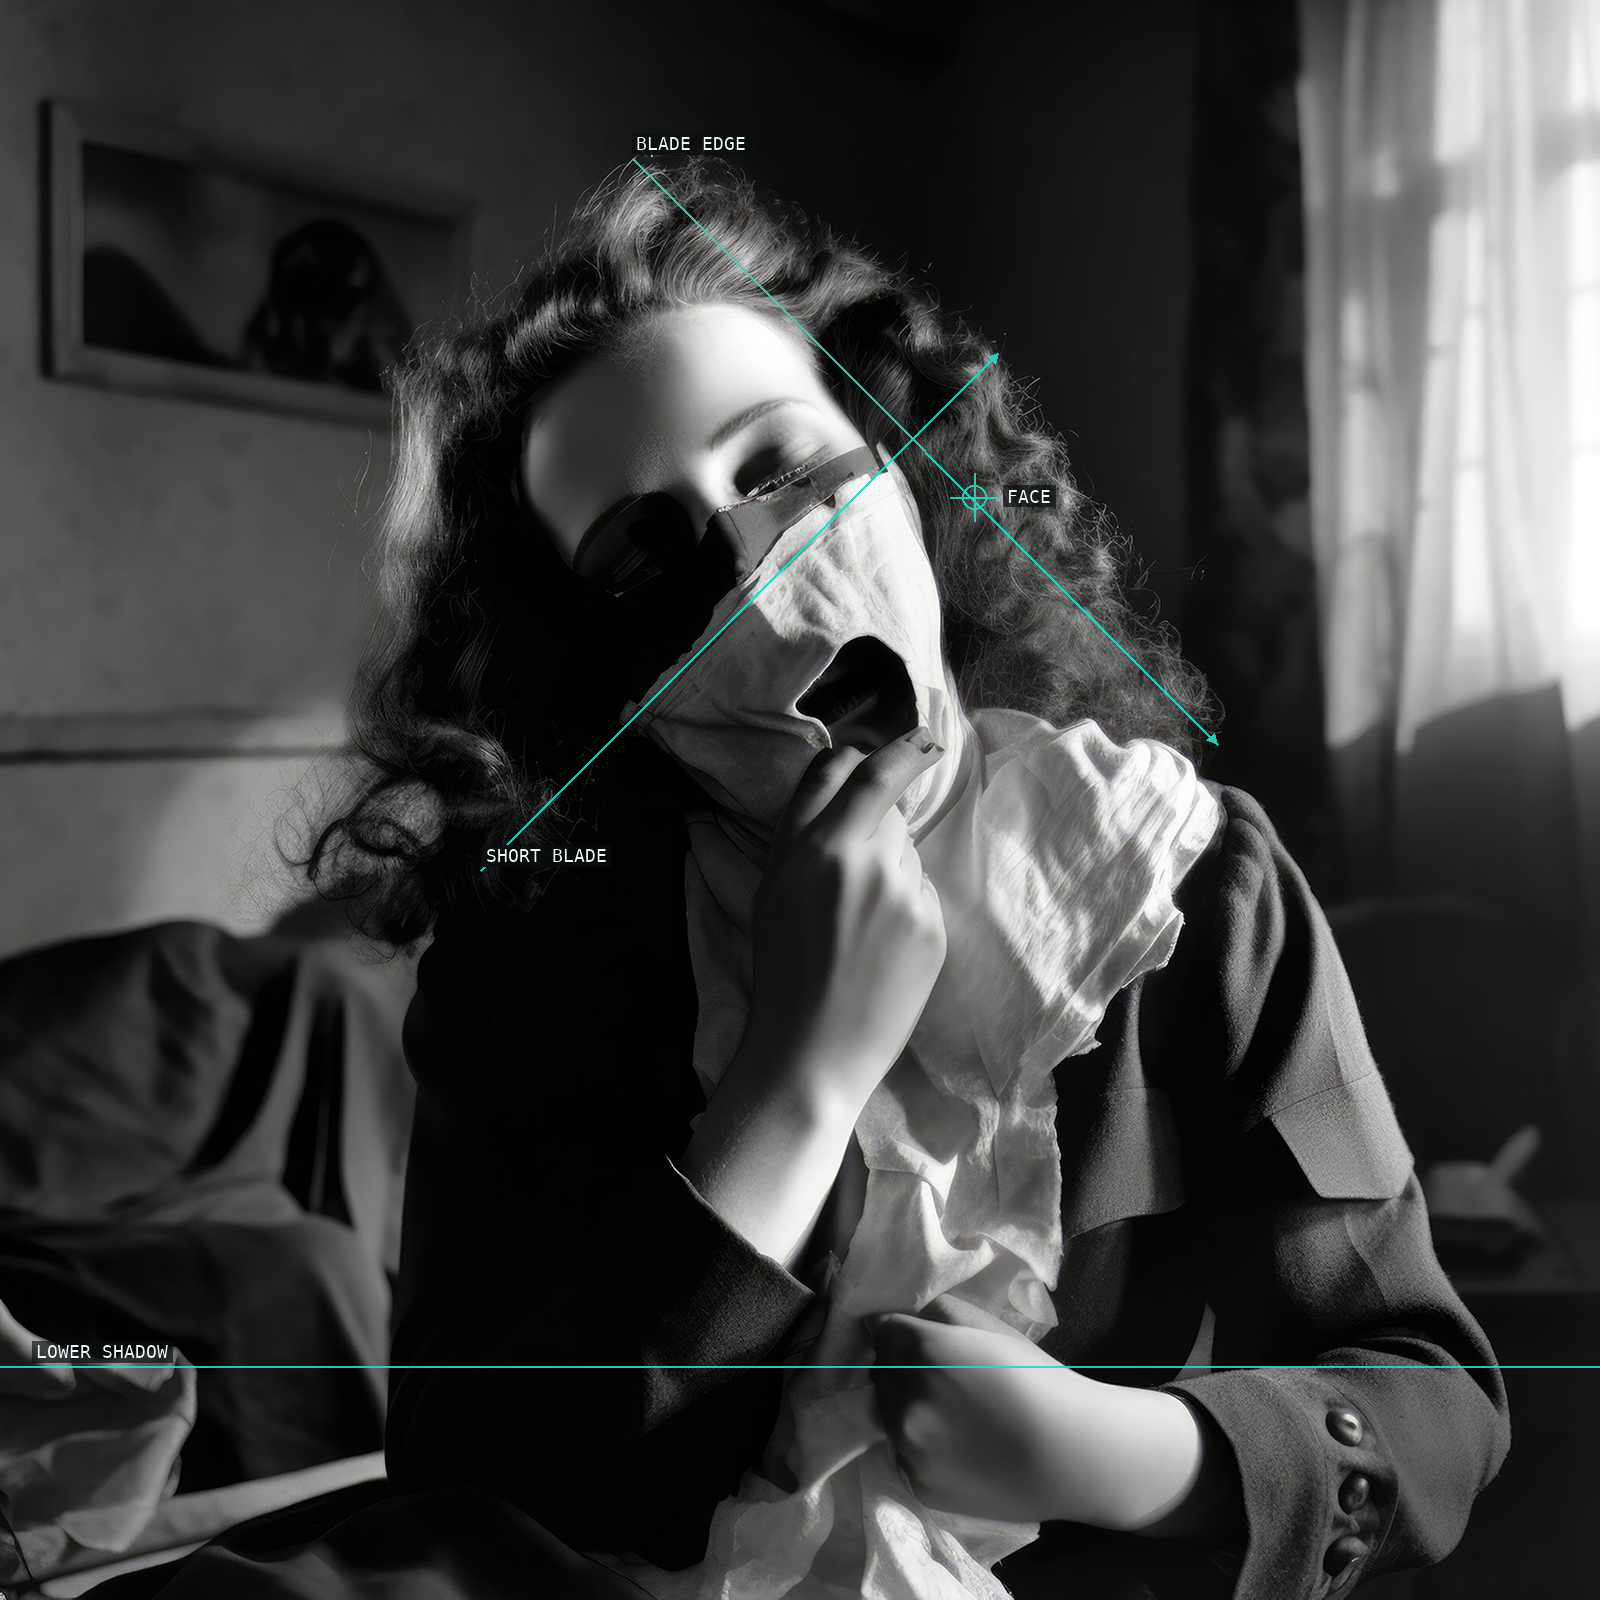
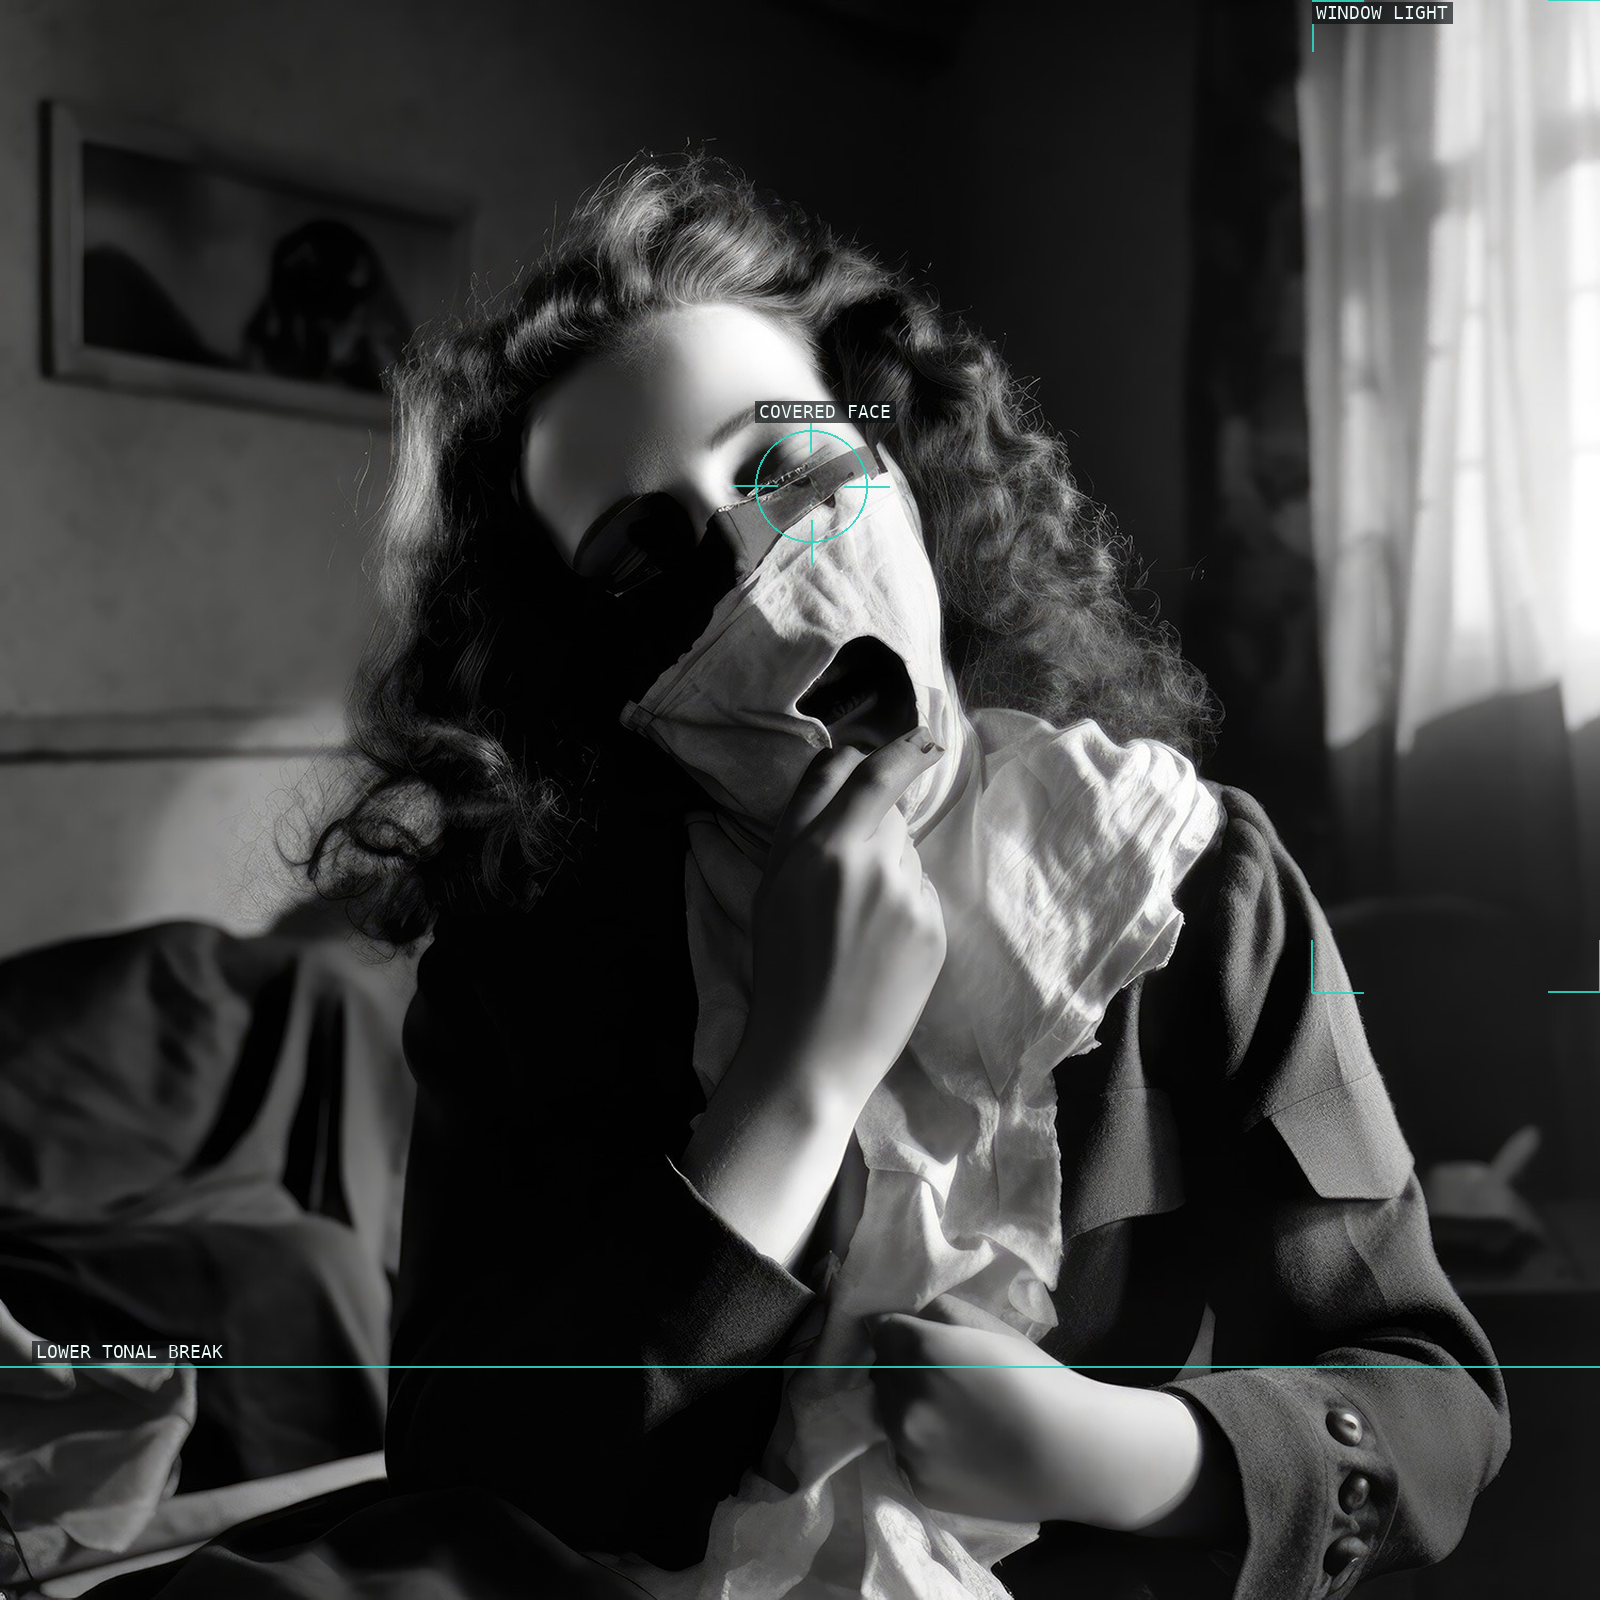
resolve critique: boris-eldagsen

diff --git a/content/boris-eldagsen/critique.md b/content/boris-eldagsen/critique.md
@@ -1,4 +1,4 @@
-verdict: revise
+verdict: resolved
 
 ## Critique round — 2026-07-27
 
@@ -36,3 +36,21 @@ process claims beyond the documented AI workflow.
   `01-the-electrician`). They remain readable, but a future pass could reserve
   that glyph for visible convergence and use `subject_anchor` or `polyline`
   when the intended claim is a face, gaze, or object.
+
+## Builder resolution — 2026-07-27
+
+1. **`03-the-leftovers` fixed.** Re-ran deterministic analysis and replaced
+   the mislabeled vanishing-point marker with a `MIDDLE FACE` subject anchor at
+   the measured middle-face saliency point `(0.400, 0.385)`. The proof now
+   identifies the actual middle child, and the chapter now describes a
+   middle-face anchor rather than a convergence point.
+2. **`07-the-breath` fixed.** Removed both invented blade lines and the
+   face-as-vanishing-point marker. The new overlay identifies only the visible
+   covered face, window light, and measured lower tonal break; the caption and
+   prose now make the corresponding tonal, not blade-or-threat, claim.
+
+Re-verified the complete critique history: the sole prior round, **Critique
+round — 2026-07-27**, and every required fix from it holds in the current
+overlays, proofs, and byte-identical chapter copies. Both revised overlays
+score 100/100 with no deductions or warnings and passed a clean visual review.
+`scripts/check.sh` passes.
